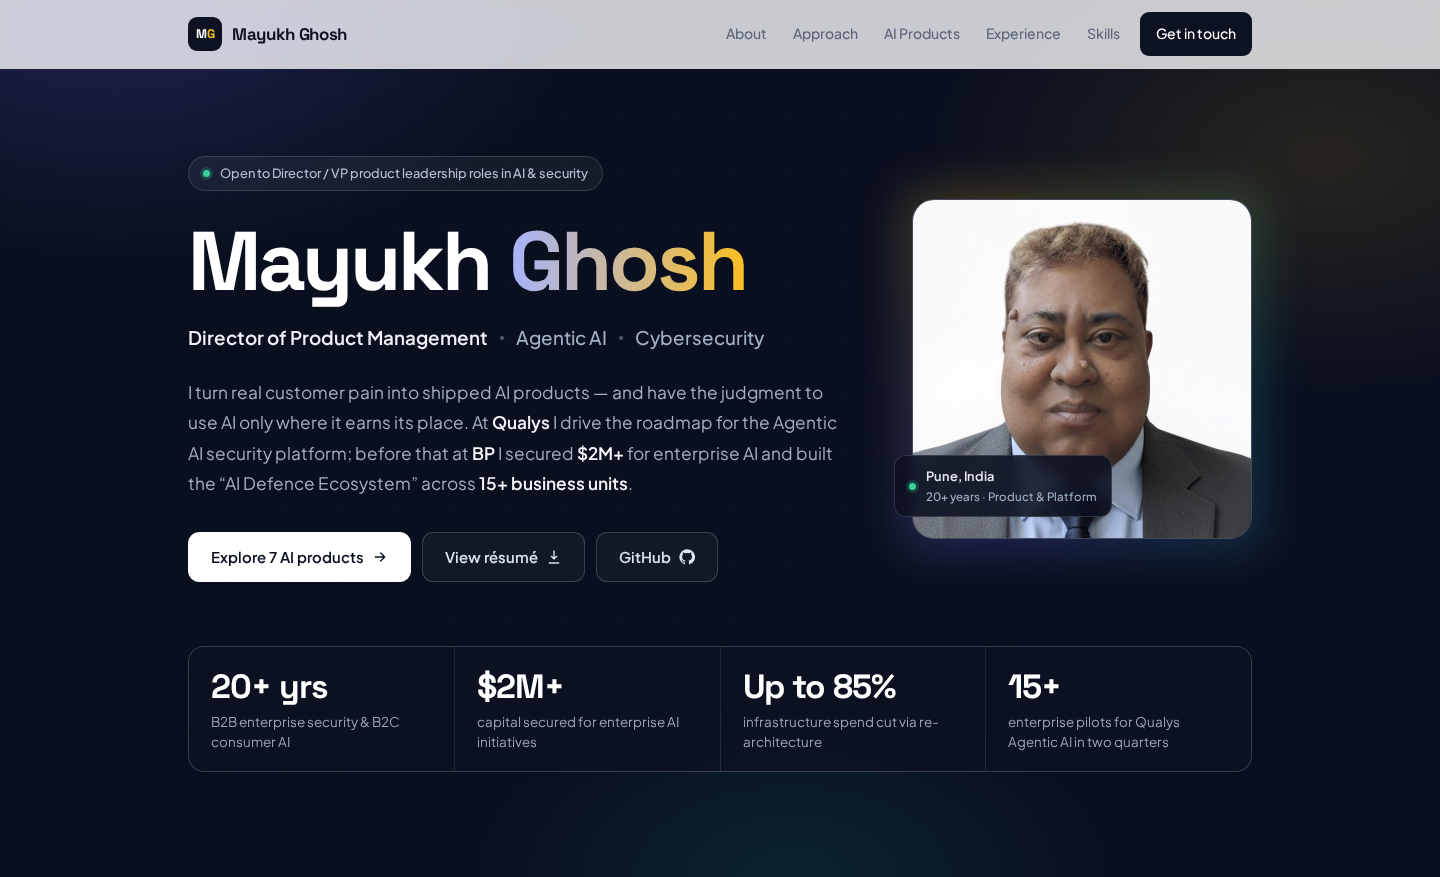
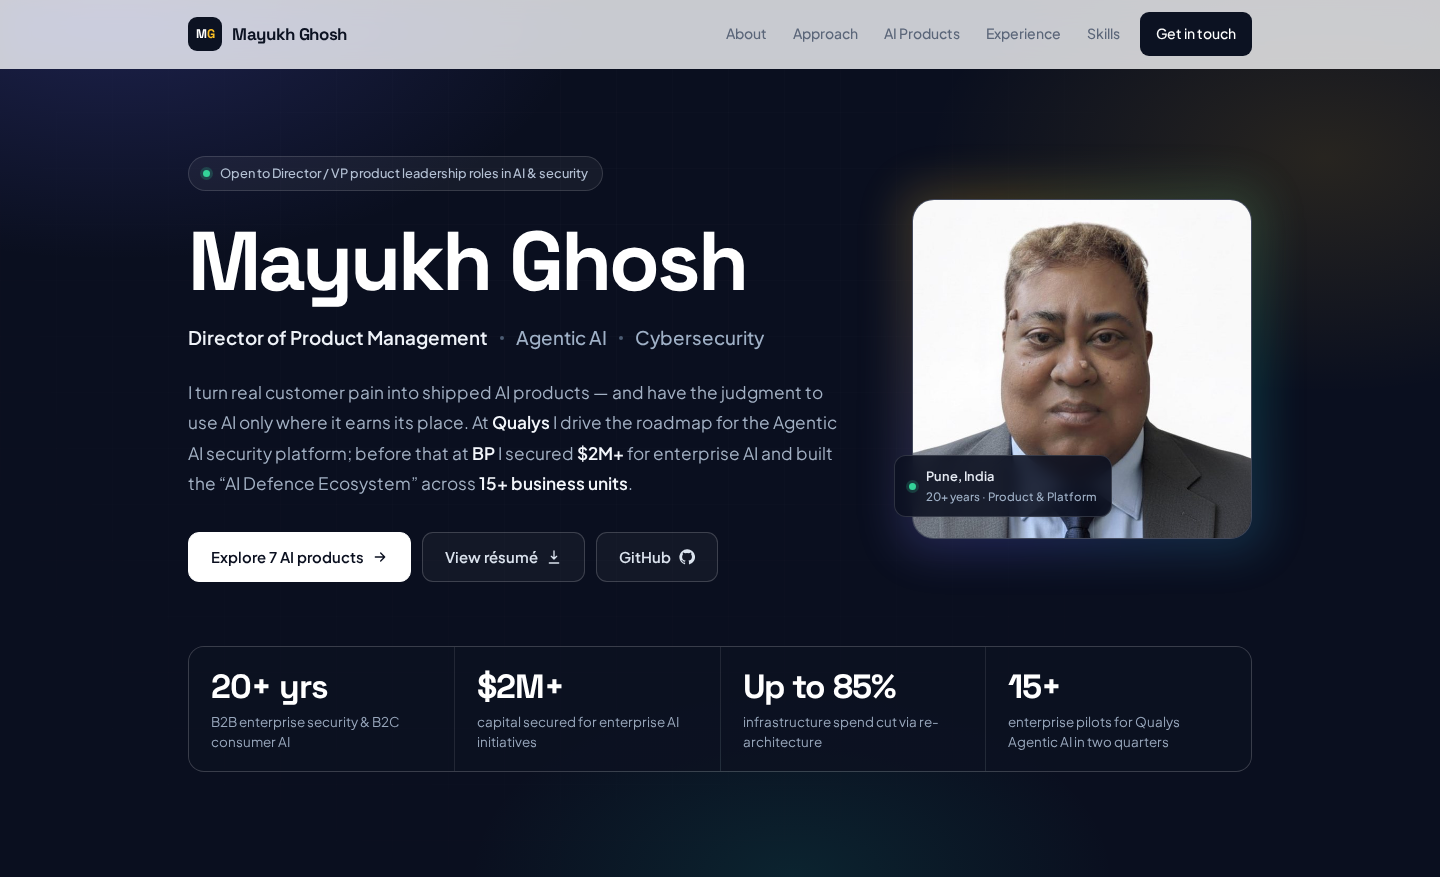
Render full name in a single solid colour
The surname used gradient-clipped text, which some browsers and
dark-mode extensions render as near-invisible. Show the whole name in
the heading colour instead.

Claude-Session: https://claude.ai/code/session_01GjEBaYy85e9omUGhzzrw4B

Changed region(s): [[0.3438, 0.2463, 0.5312, 0.3387]]

diff --git a/styles.css b/styles.css
@@ -114,7 +114,6 @@ section{padding:100px 0;position:relative;}
 }
 .dot{width:7px;height:7px;border-radius:50%;background:#34d399;box-shadow:0 0 0 3px rgba(52,211,153,.2);flex:none;}
 .hero h1{color:#fff;font-size:clamp(2.9rem,7.4vw,5.2rem);line-height:1.02;margin-bottom:18px;letter-spacing:-.035em;}
-.hero h1 em{font-style:normal;background:linear-gradient(90deg,#a5b4fc,var(--glow));-webkit-background-clip:text;background-clip:text;color:transparent;}
 .hero-role{font-size:clamp(1rem,2vw,1.18rem);color:#9fb0c6;font-weight:500;margin-bottom:24px;display:flex;flex-wrap:wrap;align-items:center;gap:8px 12px;}
 .hero-role b{color:#eef2f8;font-weight:600;}
 .hero-role .grp{display:inline-flex;align-items:center;gap:12px;flex-wrap:wrap;}

diff --git a/script.js b/script.js
@@ -58,10 +58,9 @@
   function renderHero(p, prodCount) {
     var person = p.person || {}, links = p.links || {};
     var name = String(person.name || '').trim();
-    var parts = name.split(/\s+/), last = parts.length > 1 ? parts.pop() : '';
     set('badge', esc(person.badge));
     slot('badge').closest('.badge').hidden = !person.badge;
-    set('name', esc(parts.join(' ')) + (last ? ' <em>' + esc(last) + '</em>' : ''));
+    set('name', esc(name));
     set('role', '<b>' + esc(person.headline) + '</b>' + (arr(person.tags).length
       ? ' <span class="grp">' + arr(person.tags).map(function (t) { return '<span class="sep" aria-hidden="true"></span>' + esc(t); }).join('') + '</span>' : ''));
     set('lede', md(person.lede));

diff --git a/qa/VALIDATION_REPORT.md b/qa/VALIDATION_REPORT.md
@@ -1,6 +1,6 @@
 # Validation Report — Portfolio Site & Editor
 
-**Run:** 2026-09-24 07:02 UTC · **Browser:** Chromium (Playwright 1.56.1) · **Accessibility engine:** axe-core 4.11.0
+**Run:** 2026-09-24 07:10 UTC · **Browser:** Chromium (Playwright 1.56.1) · **Accessibility engine:** axe-core 4.11.0
 
 ## Summary
 
@@ -32,7 +32,7 @@
 | A1 | All required files exist | ✅ Pass | 0.0s | 15 files checked |
 | A2 | Content JSON is valid and internally consistent | ✅ Pass | 0.0s | 7 products, 3 arenas, 7 roles |
 | A3 | Phone number is not published in any site text file | ✅ Pass | 0.0s | 12 text files scanned; résumé PDF text layer additionally verified with pdfminer (see report) |
-| A4 | Every local URL referenced by pages and content resolves (HTTP 200) | ✅ Pass | 0.1s | 9 local references checked |
+| A4 | Every local URL referenced by pages and content resolves (HTTP 200) | ✅ Pass | 0.0s | 9 local references checked |
 | A5 | SEO & social metadata (title, description, canonical, Open Graph, JSON-LD) | ✅ Pass | 0.0s |  |
 | A6 | Crawl rules: robots.txt blocks /admin, admin + 404 are noindex, sitemap valid | ✅ Pass | 0.0s |  |
 
@@ -40,7 +40,7 @@
 
 | ID | Test case | Result | Time | Details / evidence |
 |---|---|---|---|---|
-| B1 | Home page loads with zero console errors, page errors or failed requests | ✅ Pass | 1.7s | DOMContentLoaded 25 ms (local server); web fonts loaded<br>[01-desktop-1440-full-page.jpg](screenshots/01-desktop-1440-full-page.jpg) |
+| B1 | Home page loads with zero console errors, page errors or failed requests | ✅ Pass | 1.9s | DOMContentLoaded 35 ms (local server); web fonts loaded<br>[01-desktop-1440-full-page.jpg](screenshots/01-desktop-1440-full-page.jpg) |
 | B2 | Hero renders name, title, badge, intro (with bold), CTAs, photo and 4 stats | ✅ Pass | 1.0s | [02-hero-desktop.png](screenshots/02-hero-desktop.png) |
 | B3 | Every section renders the expected number of items from content JSON | ✅ Pass | 0.7s | facts=6, steps=6, principles=3, products=7, pillars=3, metrics=4, roles=7, panels=7, skills=4, edu=3, contact=4 |
 | B4 | Content fidelity: every product, role, skill and education entry appears on the page | ✅ Pass | 0.7s |  |
@@ -51,9 +51,9 @@
 |---|---|---|---|---|
 | C1 | Product card accordion expands and collapses (aria-expanded + height) | ✅ Pass | 2.0s | [03-product-card-expanded.png](screenshots/03-product-card-expanded.png) |
 | C2 | Arena filter chips show the right products and counts | ✅ Pass | 1.2s | [04-filter-agentic.png](screenshots/04-filter-agentic.png) |
-| C3 | Experience tabs: clicking each tab shows exactly its panel | ✅ Pass | 3.8s | 7 tabs exercised<br>[05-experience-bp-tab.png](screenshots/05-experience-bp-tab.png) |
+| C3 | Experience tabs: clicking each tab shows exactly its panel | ✅ Pass | 3.5s | 7 tabs exercised<br>[05-experience-bp-tab.png](screenshots/05-experience-bp-tab.png) |
 | C4 | Experience tabs support keyboard (Arrow keys, Home, End) with roving tabindex | ✅ Pass | 0.7s |  |
-| C5 | Deep links open products (URL hash, filtered state, experience “related product” links) | ✅ Pass | 4.4s |  |
+| C5 | Deep links open products (URL hash, filtered state, experience “related product” links) | ✅ Pass | 2.7s |  |
 | C6 | Nav links scroll to sections; active link and scrolled state update | ✅ Pass | 6.5s |  |
 | C7 | Links: external open safely in new tab, mailto correct, résumé PDF served | ✅ Pass | 0.7s | 12 external links, 7 product GitHub links |
 
@@ -63,11 +63,11 @@
 |---|---|---|---|---|
 | D-1440 | No horizontal overflow and correct layout at 1440px (desktop) | ✅ Pass | 1.9s | [06-desktop-1440-full-page.jpg](screenshots/06-desktop-1440-full-page.jpg) |
 | D-1024 | No horizontal overflow and correct layout at 1024px (laptop) | ✅ Pass | 1.8s | [07-laptop-1024-full-page.jpg](screenshots/07-laptop-1024-full-page.jpg) |
-| D-768 | No horizontal overflow and correct layout at 768px (tablet) | ✅ Pass | 2.0s | [08-tablet-768-full-page.jpg](screenshots/08-tablet-768-full-page.jpg) |
-| D-390 | No horizontal overflow and correct layout at 390px (mobile) | ✅ Pass | 1.7s | [09-mobile-390-full-page.jpg](screenshots/09-mobile-390-full-page.jpg) |
+| D-768 | No horizontal overflow and correct layout at 768px (tablet) | ✅ Pass | 1.9s | [08-tablet-768-full-page.jpg](screenshots/08-tablet-768-full-page.jpg) |
+| D-390 | No horizontal overflow and correct layout at 390px (mobile) | ✅ Pass | 1.6s | [09-mobile-390-full-page.jpg](screenshots/09-mobile-390-full-page.jpg) |
 | D-320 | No horizontal overflow and correct layout at 320px (small-mobile) | ✅ Pass | 1.6s | [10-small-mobile-320-full-page.jpg](screenshots/10-small-mobile-320-full-page.jpg) |
 | D-menu | Mobile menu opens/closes (button, link tap, Escape) with correct ARIA | ✅ Pass | 1.0s | [11-mobile-menu-open.png](screenshots/11-mobile-menu-open.png) |
-| D-touch | Touch targets are at least 44×44px on mobile | ✅ Pass | 0.7s |  |
+| D-touch | Touch targets are at least 44×44px on mobile | ✅ Pass | 0.8s |  |
 
 ### E. Accessibility
 
@@ -96,17 +96,17 @@
 |---|---|---|---|---|
 | G1 | Editor loads with no errors, populates every form from content, all tabs work | ✅ Pass | 1.1s | [15-admin-profile-tab.png](screenshots/15-admin-profile-tab.png) |
 | G2 | Editing a field marks the draft dirty, autosaves, and “Preview draft” shows it on the real site | ✅ Pass | 2.3s | [16-admin-preview-draft.png](screenshots/16-admin-preview-draft.png) |
-| G3 | Add a new product through the form; it appears on the site with correct arena filter counts | ✅ Pass | 2.1s | [17-admin-new-product-form.png](screenshots/17-admin-new-product-form.png)<br>[18-preview-new-product.png](screenshots/18-preview-new-product.png) |
+| G3 | Add a new product through the form; it appears on the site with correct arena filter counts | ✅ Pass | 2.0s | [17-admin-new-product-form.png](screenshots/17-admin-new-product-form.png)<br>[18-preview-new-product.png](screenshots/18-preview-new-product.png) |
 | G4 | Reorder, duplicate and delete list items (with confirmation) | ✅ Pass | 1.4s |  |
 | G5 | Validation blocks publishing and points to each problem (required, email, URL, duplicate ID, unknown link) | ✅ Pass | 1.2s | [19-admin-validation-errors.png](screenshots/19-admin-validation-errors.png) |
 | G6 | Connect flow: bad token shows a friendly error; valid token connects | ✅ Pass | 1.2s | [20-admin-connected.png](screenshots/20-admin-connected.png) |
 | G7 | Publish commits correct JSON to the right repo/branch with SHAs, clears dirty state | ✅ Pass | 1.1s | [21-admin-published.png](screenshots/21-admin-published.png) |
 | G8 | Publish detects a remote change and asks before overwriting (cancel = no commit) | ✅ Pass | 1.5s |  |
 | G9 | File uploads: résumé PDF committed; wrong type and fake PDF rejected; portfolio + photo wire into content | ✅ Pass | 1.7s | [22-admin-files-uploaded.png](screenshots/22-admin-files-uploaded.png) |
-| G10 | Backup download + restore, and “Discard draft” reverts to live content | ✅ Pass | 1.3s |  |
+| G10 | Backup download + restore, and “Discard draft” reverts to live content | ✅ Pass | 1.2s |  |
 | G11 | “Remember on this device” stores token in localStorage; Disconnect removes it everywhere | ✅ Pass | 1.7s | Reopening the editor reconnects automatically |
 | G12 | Editor is usable on mobile (390px): no horizontal overflow, axe audit clean | ✅ Pass | 1.5s | Admin axe: 0 violations<br>[23-admin-mobile-390.png](screenshots/23-admin-mobile-390.png) |
-| G13 | Products tab and Files tab render correctly (visual check) | ✅ Pass | 1.2s | [24-admin-products-tab.png](screenshots/24-admin-products-tab.png)<br>[25-admin-files-tab.png](screenshots/25-admin-files-tab.png)<br>[26-admin-connect-tab.png](screenshots/26-admin-connect-tab.png) |
+| G13 | Products tab and Files tab render correctly (visual check) | ✅ Pass | 1.1s | [24-admin-products-tab.png](screenshots/24-admin-products-tab.png)<br>[25-admin-files-tab.png](screenshots/25-admin-files-tab.png)<br>[26-admin-connect-tab.png](screenshots/26-admin-connect-tab.png) |
 
 ## Screenshots
 
